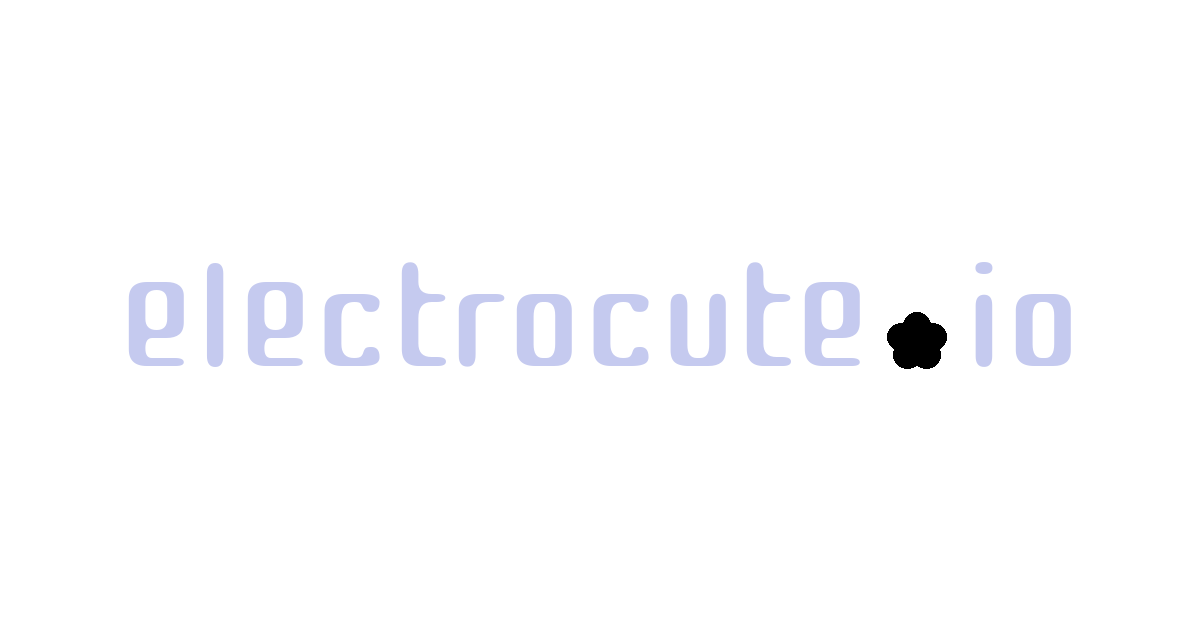
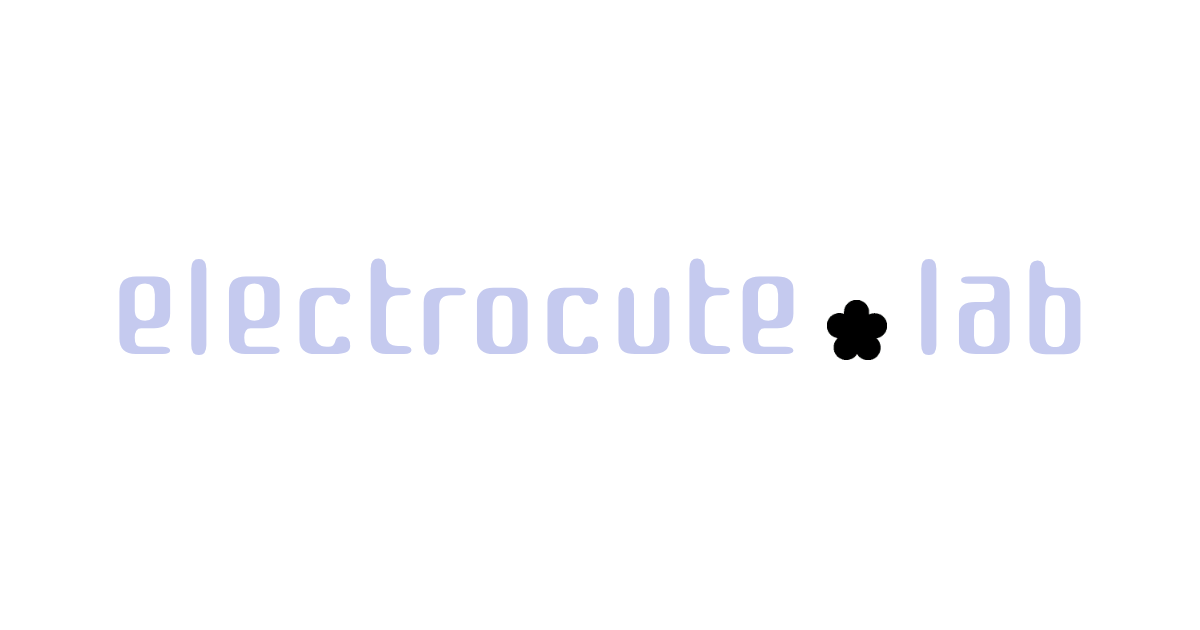
changed og image to say lab

Changed region(s): [[0.0925, 0.3921, 0.925, 0.6032]]

diff --git a/src/pages/_app.js b/src/pages/_app.js
@@ -14,14 +14,14 @@ export default function App({ Component, pageProps, router }) {
         <meta property="og:site_name" content="electrocute.io" />
         <meta
           property="og:image"
-          content="https://electrocute.io/og-image.png"
+          content="https://electrocute.io/og-image.png?v=2"
         />
         <meta property="og:image:width" content="1200" />
         <meta property="og:image:height" content="630" />
         <meta name="twitter:card" content="summary_large_image" />
         <meta
           name="twitter:image"
-          content="https://electrocute.io/og-image.png"
+          content="https://electrocute.io/og-image.png?v=2"
         />
       </Head>
       <motion.div
